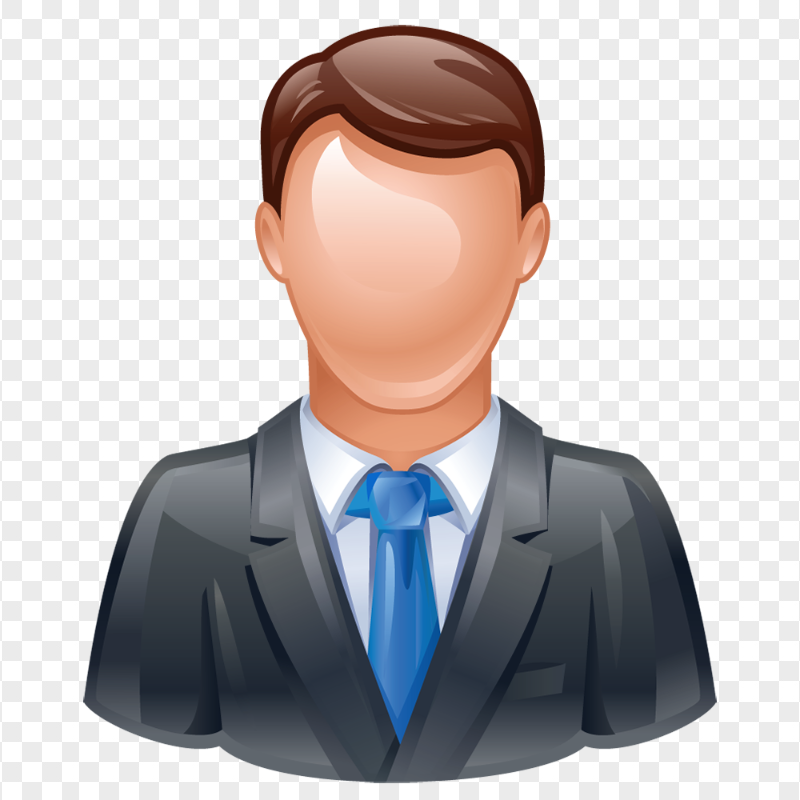
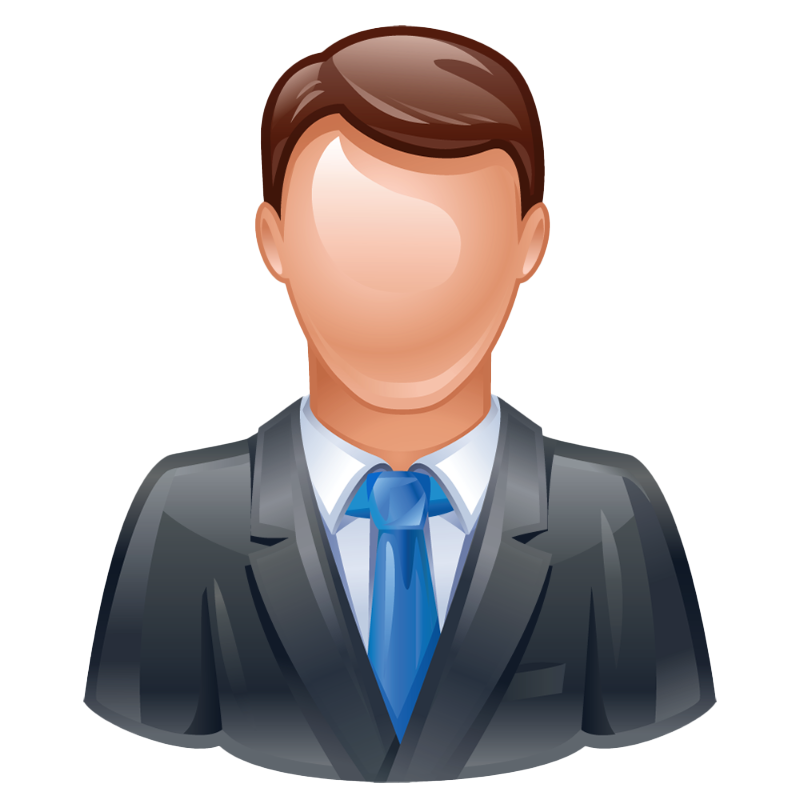
changed user-1.png to real png image

diff --git a/18.11.2024-2/index.html b/18.11.2024-2/index.html
@@ -1,0 +1,27 @@
+<!DOCTYPE html>
+<html lang="en">
+<head>
+    <meta charset="UTF-8">
+    <meta name="viewport" content="width=device-width, initial-scale=1.0">
+    <link rel="stylesheet" href="style.css">
+    <title>Document</title>
+</head>
+<body>
+    <div class="message-wrapper">
+        <div class="message">
+            <div class="user">
+                <div class="user-info">
+                    <h4>Mike D-Row</h4>
+                    <span>4 hours ago</span>
+                </div>
+                <img src="images/user-1.png" alt="">
+            </div>
+            <div class="bubble">
+                <span>Lorem, ipsum dolor sit amet consectetur adipisicing elit. 
+                    Repellendus ad quis quos a exercitationem porro pariatur soluta non odit. 
+                    Assumenda nesciunt incidunt maxime, fugit doloribus dolorem odio odit possimus illum!</span>
+            </div>
+        </div>
+    </div>
+</body>
+</html>

diff --git a/18.11.2024-2/style.css b/18.11.2024-2/style.css
@@ -1,0 +1,34 @@
+body
+{
+    margin: 0;
+}
+.message-wrapper
+{
+    display: flex;
+    justify-content: center;
+}
+.message
+{
+    display: flex;
+    align-items: center;
+}
+.user
+{
+    width: 175px;
+    height: 150px;
+    background-color: aquamarine;
+    display: flex;
+    justify-content: space-between;
+    align-items: center;
+    margin-right: 10px;
+}
+img
+{
+    width: 80px;
+    height: 80px;
+}
+.bubble
+{
+    display: inline-block;
+    width: 500px;
+}
